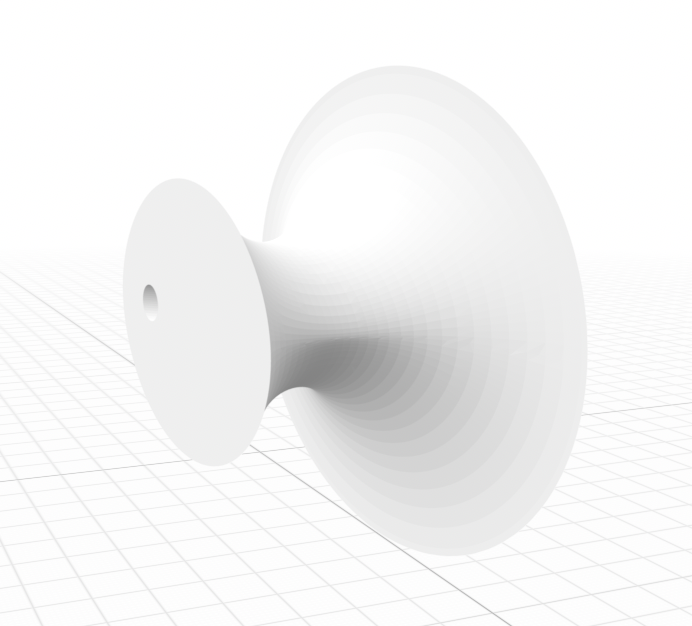
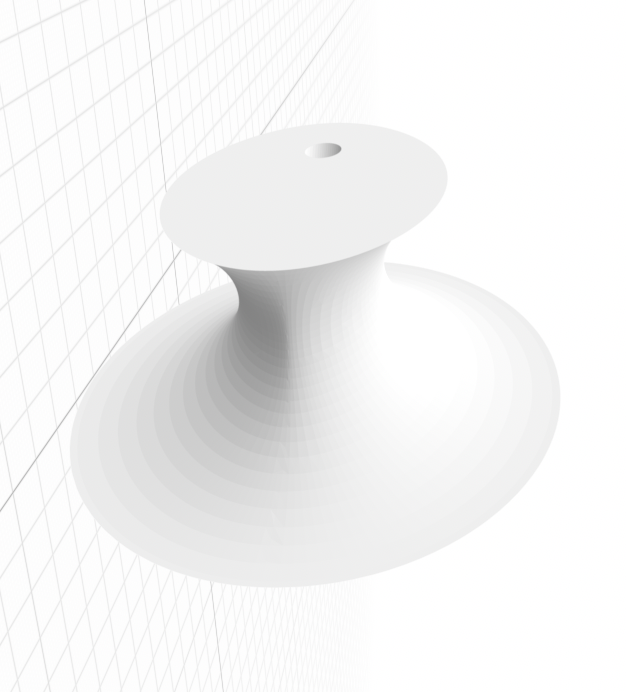
Pretty much finished up documenting

diff --git a/docs/index.md b/docs/index.md
@@ -1,46 +1,94 @@
-<center>Jace Bruner | Satisfying Stars | 3/31/2021</center>
+<center> Jace Bruner | Satisfying Stars | 3/31/2021 </center> 
 
-<center>![Image](/assets/SatisfyingStars.png){: width="500" }</center>
+<img src="assets/SatisfyingStars.png" style="width:50%; margin-left: auto; margin-right: auto; display: block;"/>
 
-<center>Midterm Video: [Link](https://youtu.be/k0vs9TMm_1k)</center>
+<center>Midterm Video: <a href="https://youtu.be/k0vs9TMm_1k">https://youtu.be/k0vs9TMm_1k</a></center>
 
 ## Description
-This project was created to mimic the 3D animation found here: [Link](https://youtu.be/iLRsCtd5P9s?t=427)
+This project was inspired the 3D animation found here: [Link](https://youtu.be/iLRsCtd5P9s?t=427)
 
-You can use the [editor on GitHub](https://github.com/jhbruner24/SatisfyingStars/edit/main/docs/index.md) to maintain and preview the content for your website in Markdown files.
+The 3D animation depicts a seemingly frictionless world where a ball seemlessly slides over a rotating 3D elyptically shaped obeject. 
 
-Whenever you commit to this repository, GitHub Pages will run [Jekyll](https://jekyllrb.com/) to rebuild the pages in your site, from the content in your Markdown files.
+The completed project was submitted for the midterm of Design Innovation 23 at UC Berkeley.
 
-### Markdown
+## Project Progression
+<img src="assets/Animation.png" style="width:25%; height:10%"/>
+<img src="assets/Arrow.png" style="width:10%;margin-bottom:7%"/>
+<img src="assets/Prototype.jpg" style="width:25%;height:10%"/>
+<img src="assets/Arrow.png" style="width:10%;margin-bottom:7%"/>
+<img src="assets/SatisfyingStarsNoLights.jpg" style="width:25%;height:10%"/>
 
-Markdown is a lightweight and easy-to-use syntax for styling your writing. It includes conventions for
+## Primary Challenge
+Power a motor to spin a rod or dowel attached to a very unique piece. When this piece spins it should move the ball side to side on a 2D plane and have it swing like a pendulum. Because the unique piece takes an elliptical shape, the ball will be pushed to one side as the ellipse rotates and then will be pushed back in the other direction each time the major axis of the ellipse crosses the axis of the rod it is mounted on. 
 
-```markdown
-Syntax highlighted code block
+Although my device may not be as smooth as the animation, that is to be expected given that I am dealing with real life forces, such as friction, that cannot be avoided like they can be in the animation.
 
-# Header 1
-## Header 2
-### Header 3
+## Hardware
+The Continuous Servo:
+- Is mounted via two screws a couple centimeters from the wood frame.
+- Power and Ground wires are spliced with the Power and Ground wires of the LED light strip below since both features need the same 5V supply.
+- Connects to the dowel via a roughly square piece of wood with a hole in the middle for the dowel to connect.
+- Receives input from digital pin 9 in the arduino.
 
-- Bulleted
-- List
+<img src="assets/ServoMount.jpg" style="width:25%; margin-left: auto; margin-right: auto; display: block;"/>
+<br>
 
-1. Numbered
-2. List
+The Arduino:
+- Is mounted via two screws directly on the wood frame.
+- Wires to the continuous servo and to the LED light strip.
+- Mounts the IR sensor to pick up remote signals.
+- Originally I had soldered another wire to the IR sensor and had that connected to the 3.3 volt supply on the arduino, but unfortunately I lost that IR sensor piece when it fell out one time.
+  - Luckily I remembered that I could simply change one of the pins on the arduino to output the necessary voltage and thus could place a new IR 
+  - Sensor directly into the digital pins without having to wire it to the designated voltage supply.
 
-**Bold** and _Italic_ and `Code` text
+<img src="assets/ArduinoWiring.jpg" style="width:25%; margin-left: auto; margin-right: auto; display: block;"/>
+<br>
 
-[Link](url) and ![Image](/assets/SatisfyingStars)
-```
+The Battery:
+- Is loosely held in place by four screws.
+- Powers the arduino.
+- Unfortunately while testing I burnt through my last 9V battery and now have to power the device with my laptop until new batteries arrive.
+- If I make a new “Satisfying Stars” in the future, I would like to mount another battery since both the servo and LED light strip are fairly power intensive.
 
-# Header 1
+<img src="assets/BatteryMount.jpg" style="width:25%; margin-left: auto; margin-right: auto; display: block;"/>
+<br>
 
-For more details see [GitHub Flavored Markdown](https://guides.github.com/features/mastering-markdown/).
+Unique Piece:
+- Changes from the prototype include
+  - Decreasing the curve radius such that the curve is sharper.
+  - Adjusting the mounting hole to fit the dowel better.
 
-### Jekyll Themes
+<img src="assets/UniquePiece.png" style="width:25%; margin-left: auto; margin-right: auto; display: block;"/>
+<br>
 
-Your Pages site will use the layout and styles from the Jekyll theme you have selected in your [repository settings](https://github.com/jhbruner24/SatisfyingStars/settings). The name of this theme is saved in the Jekyll `_config.yml` configuration file.
+Other notes:
+- I tried to clean up the project by using heat shrink or wrapping the wires in electrical tape wherever applicable.
+- The LED light strip refused to be hot glued to the wooden frame and thus I resorted to screwing in a series of miniature clips I had lying around to keep the strip in place.
+- I bought the wood frame on amazon here: https://www.amazon.com/gp/product/B07642GY4B/ref=ppx_yo_dt_b_asin_title_o03_s00?ie=UTF8&psc=1.
+  - Unfortunately the frame wasn’t big enough to host my unique cylindrical piece and thus I had to connect another wooden piece to the outside via wood glue.
+- I used acrylic paint to paint the backdrop to look like an abstract outer space and I used spray paint to give the ball that oscillates around to look like a planet.
+- The piece I bought on amazon is designed to mount to the wall. As a result, “Satisfying Stars” is also very light and easily mountable.
 
-### Support or Contact
+## Complete Side View
+<img src="assets/SideView.jpg" style="width:35%; margin-left: auto; margin-right: auto; display: block;"/>
 
-Having trouble with Pages? Check out our [documentation](https://docs.github.com/categories/github-pages-basics/) or [contact support](https://support.github.com/contact) and we’ll help you sort it out.
+## Supply List
+
+1. Wooden frame
+2. Wood glue
+3. Hot glue/Hot glue gun
+4. Wooden dowel
+5. 1 cm thick wood
+6. Various screws
+7. Ping pong ball
+8. Arduino
+9. 9V battery
+10. Continuous servo
+11. IR remote and receiver
+12. LED light strip
+13. Light strip mounting clips
+14. String
+15. Unique 3D printed piece
+16. Option Items
+17. Acrylic paint
+18. Spray paint
